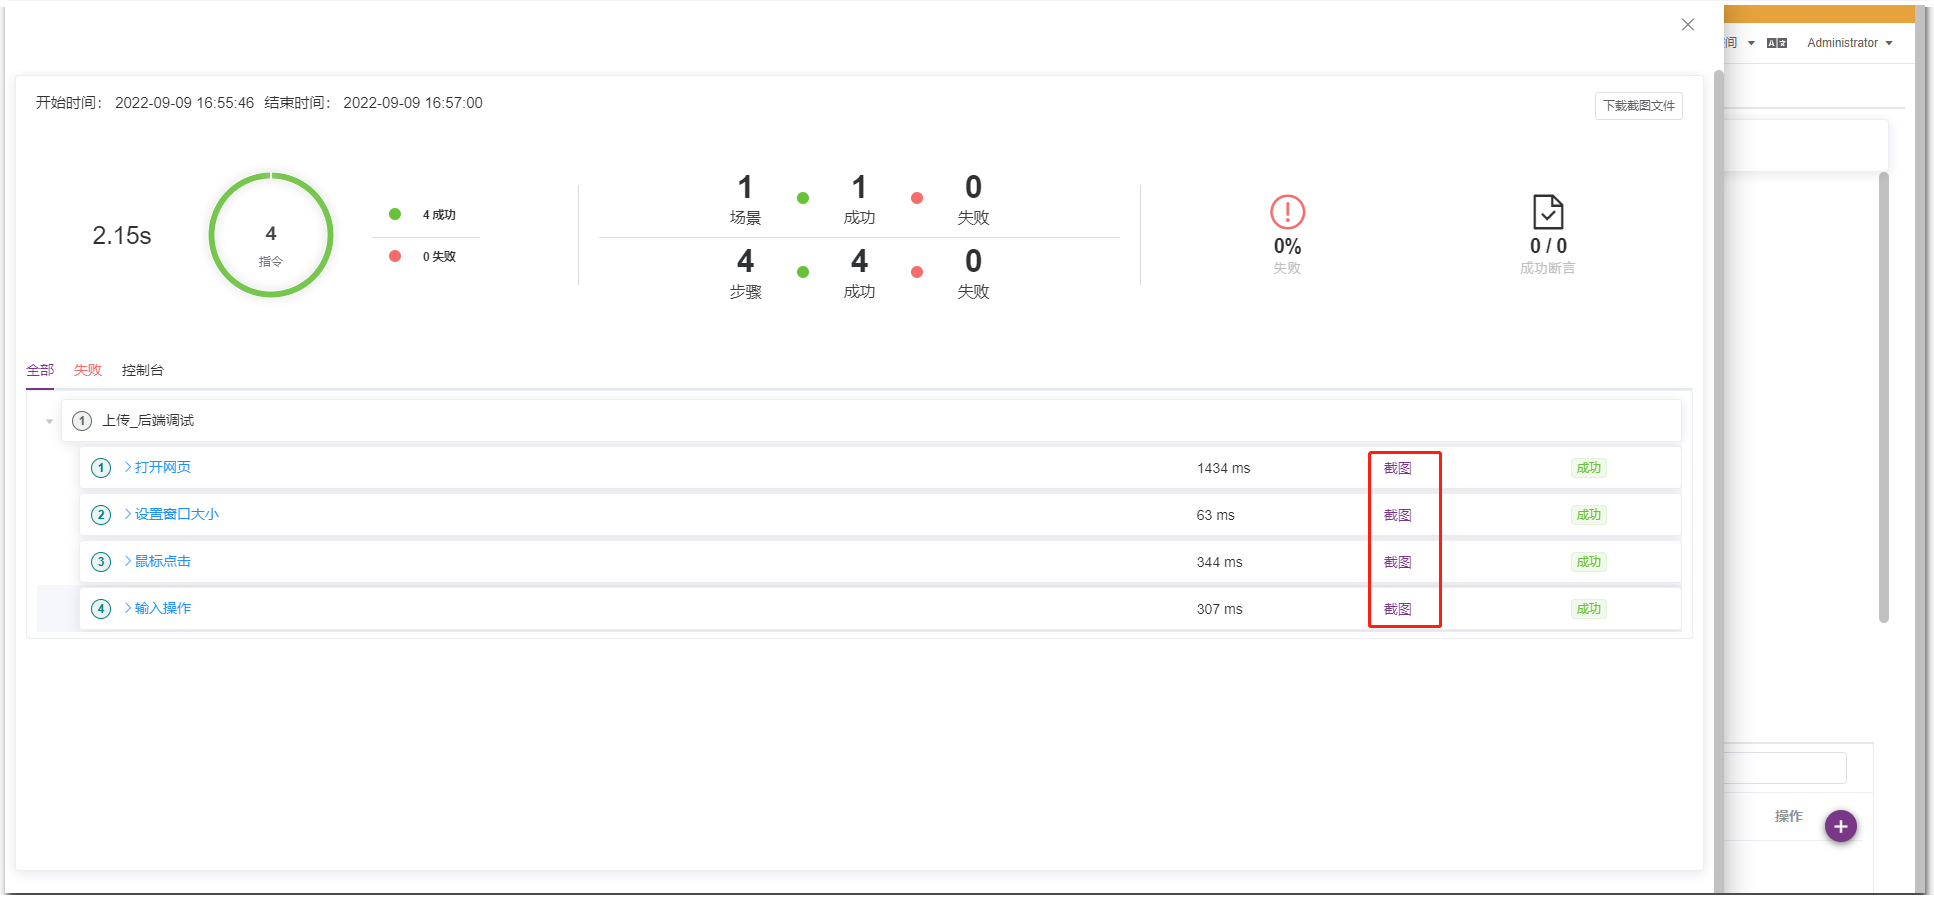
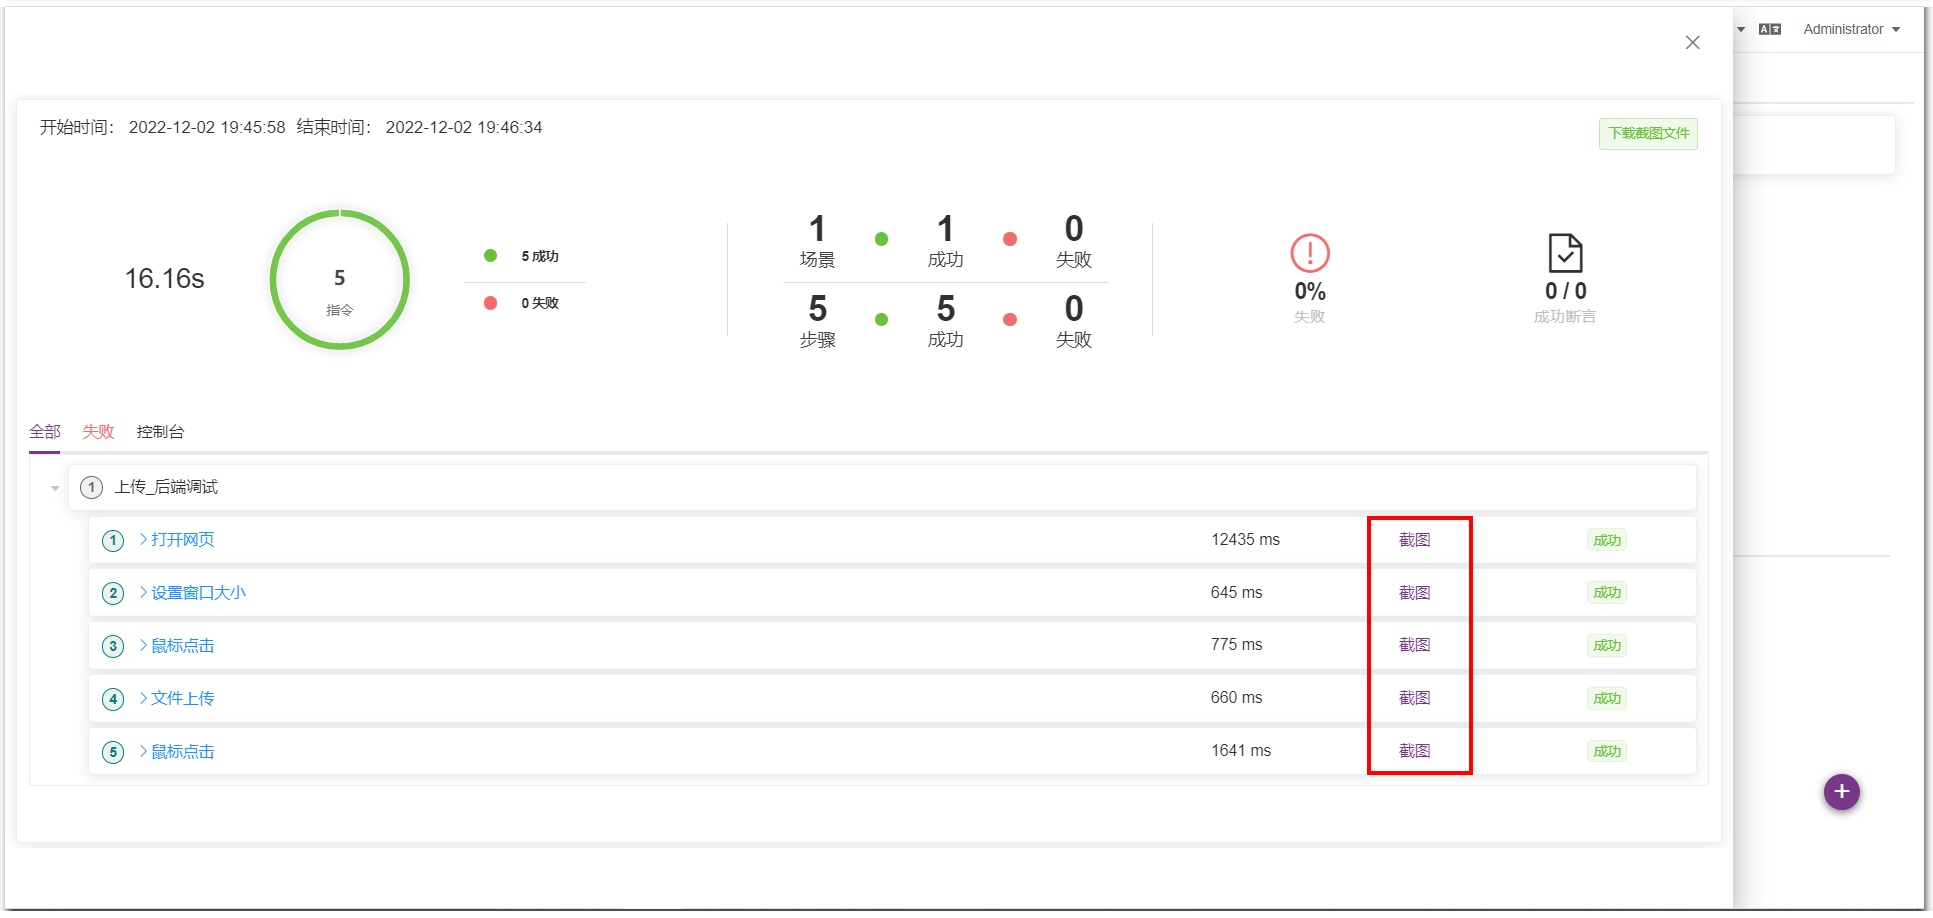
fixed: 更新"使用教程-UI模块文件上传"后端调试内容和截图

diff --git a/docs/tutorial/MeterSphere 的 UI 自动化如何实现文件上传的场景.md b/docs/tutorial/MeterSphere 的 UI 自动化如何实现文件上传的场景.md
@@ -1,7 +1,7 @@
 实际项目中，文件/图片上传的场景较多。本文以百度上传图片进行搜索为例。
 
 场景: 在百度搜索框中，上传图片进行搜索<br>
-![](../img/tutorial/ui_upload/百度搜索.png)
+![](../img/tutorial/ui_upload/按图片进行搜索.png)
 
 场景步骤: 打开网页，访问 https://www.baidu.com 网站 <br>
 ![](../img/tutorial/ui_upload/访问百度.png)
@@ -10,7 +10,7 @@
 ![](../img/tutorial/ui_upload/全屏.png)
 
 鼠标点击上传图片的按钮，正确填写上传图片按钮的定位，在后置操作中设置等待时间 <br>
-![](../img/tutorial/ui_upload/点击上传.png)
+![](../img/tutorial/ui_upload/鼠标点击.png)
 
 上传图片，在 html 中上传图片定位到是个 input 标签，可使用输入框，输入图片路径进行上传。对于本地调试和后端调式而言，图片路径是不一样的。具体如下：<br>
 
@@ -21,16 +21,16 @@ MeterSphere 服务端和本机在同一网络环境 <br>
 
 ### 1.2 上传图片
 输入框中，可以直接写入图片的本地路径，进行图片上传，并且在后置操作中设置等待时间 <br>
-![](../img/tutorial/ui_upload/本地调试路径.png)
+![](../img/tutorial/ui_upload/本地文件上传.png)
 
 不勾选性能模式，点击保存按钮，点击【本地调试】，即可看到本地浏览器上传图片的操作 <br>
-![](../img/tutorial/ui_upload/本地调试不勾选性能模式.png)
+![](../img/tutorial/ui_upload/本地调试.png)
 
 ## 2 后端调试
-将图片上传到 local-selenium-grid 容器里，放到某一路径下 <br>
+将图片上传到 【项目设置-文件管理】处 <br>
 ![](../img/tutorial/ui_upload/后台调试.png)
 
-可以直接写容器内图片的路径，不勾选性能模式，即可看到后端调试时的截图情况。<br>
+添加【输入操作】，切换到【文件上传】，添加【文件管理】处上传的图片，在【其他设置】里设置等待元素超时时间和当前步骤截图<br>
 ![](../img/tutorial/ui_upload/后端调试不勾选性能模式.png)
 
 不勾选性能模式，点击保存按钮，点击【后端调试】，可看到该场景步骤正常执行 <br>
